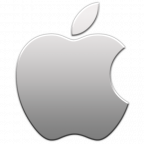
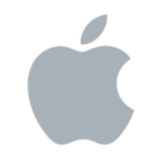
change file name

diff --git a/style.css b/style.css
@@ -323,22 +323,22 @@ section {
 
 .timeline {
     position: relative;
-    max-width: 1200px;
+    max-width: 1700px;
     margin: 100px auto;
 }
 
 .container {
-    padding: 10px 50px;
+    padding: 10px 70px;
     position: relative;
     width: 50%;
 }
 
 .text-box {
-    padding: 20px 30px;
+    padding: 50px 30px;
     background: var(--bg-color);
     position: relative;
-    border-radius: 6px;
-    font-size: 15px;
+    border-radius: 15px;
+    font-size: 25px;
 }
 
 .left-container {
@@ -351,23 +351,25 @@ section {
 
 .container img {
     position: absolute;
-    width: 70px;
+    width: 100px;
     border-radius: 50%;
-    right: -35px;
+    right: -50px;
     top: 32px;
     z-index: 10;
+    border: .2rem solid var(--main-color);
 }
 
 .right-container img {
-    left: -35px;
+    left: -50px;
 }
 
 .timeline::after {
     content: '';
     position: absolute;
+    color: white;
     width: 6px;
     height: 100%;
-    background: #fff;
+    background-color: white;
     top: 0;
     left: 50%;
     margin-left: -3px;
@@ -408,8 +410,8 @@ section {
     position: absolute;
     top: 38px;
     z-index: 1;
-    border-top: 12px solid transparent;
-    border-bottom: 12px solid transparent;
+    border-top: 15px solid transparent;
+    border-bottom: 15px solid transparent;
     border-left: 15px solid var(--bg-color);
     right: -12px;
 }
@@ -420,8 +422,8 @@ section {
     position: absolute;
     top: 38px;
     z-index: 1;
-    border-top: 12px solid transparent;
-    border-bottom: 12px solid transparent;
+    border-top: 15px solid transparent;
+    border-bottom: 15px solid transparent;
     border-right: 15px solid var(--bg-color);
     left: -12px;
 }

diff --git a/index.html b/index.html
@@ -223,8 +223,10 @@
         <h2 class="heading">Experience</h2>
 
         <div class="timeline">
+            
+
             <div class="container left-container">
-                <img src="assets/images/newapple.png">
+                <img src="assets/images/apple.png">
                 <div class="text-box">
                     <h4>Apple</h4>
                     <small>February 2022 - Present</small>
@@ -234,7 +236,7 @@
             </div>
 
             <div class="container right-container">
-                <img src="assets/images/txdot_edit2_1.png" alt="">
+                <img src="assets/images/txdot.png" alt="">
                 <div class="text-box">
                     <h4>Texas Department of Transportation</h4>
                     <small>May 2021 - August 2021</small>
